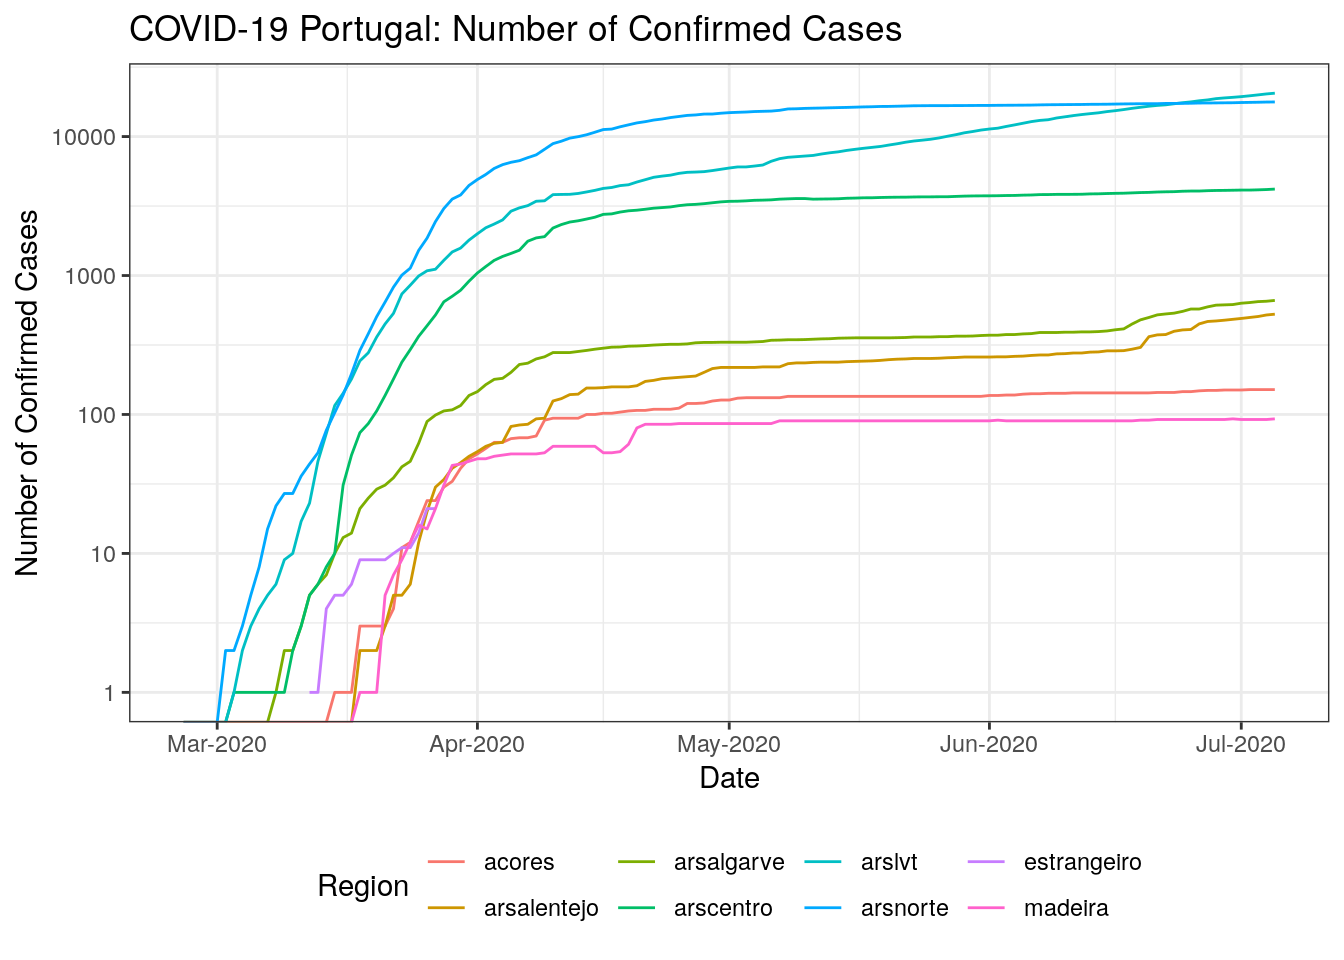
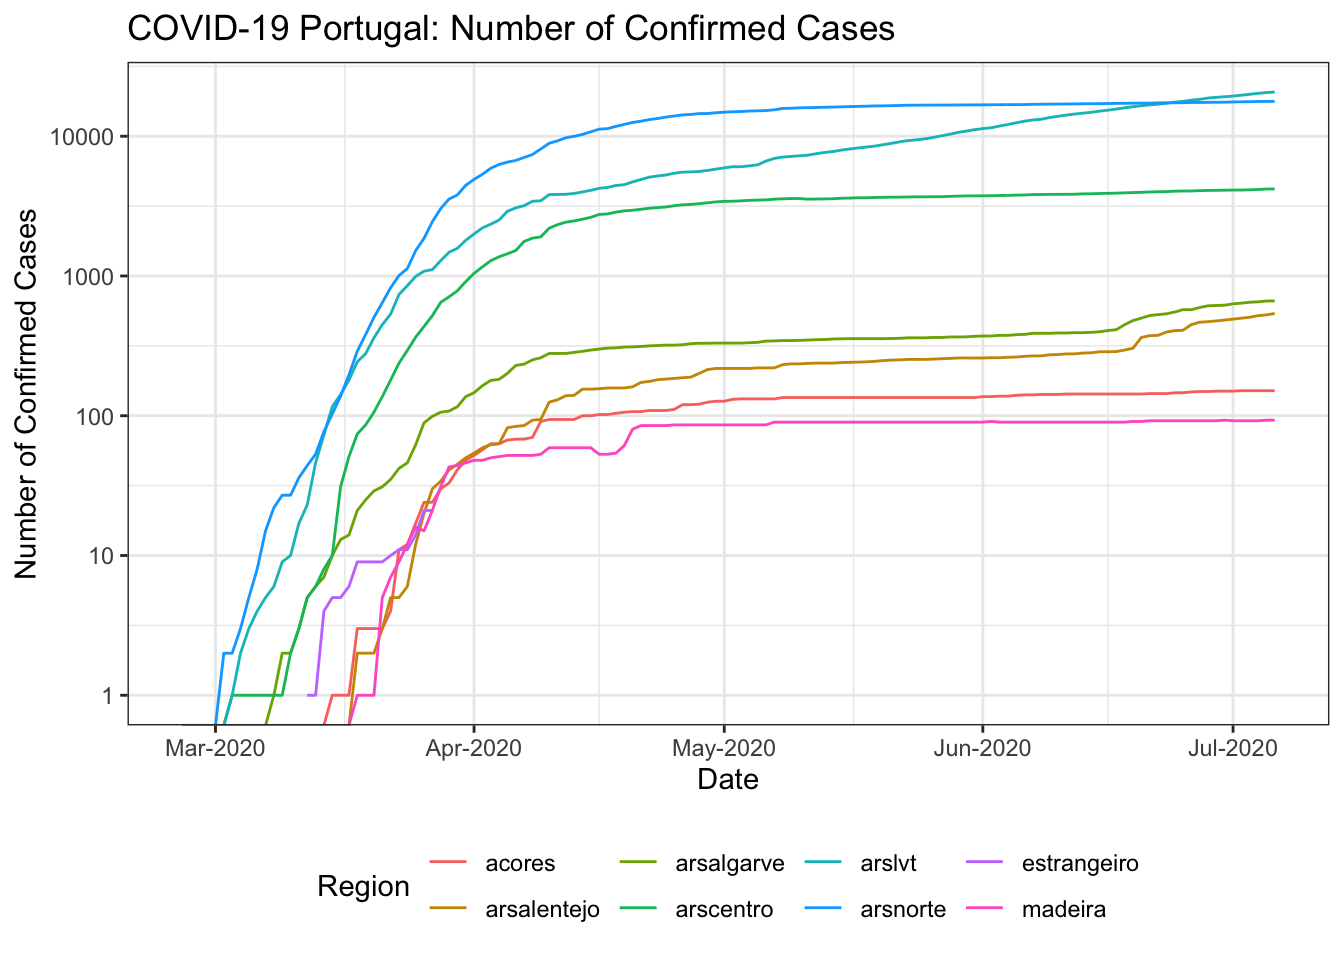
Data Update & Re-build README.Rmd

diff --git a/README.md b/README.md
@@ -1,9 +1,9 @@
 
 ## Daily Portuguese COVID-19 Data
 
-**Last updated: Mon 06 Jul 2020 (10:05:05 WEST \[+0100\])**
+**Last updated: Mon 06 Jul 2020 (15:26:33 UTC \[+0000\])**
 
-  - Data available from **26 Feb 2020** until **05 Jul 2020** (131
+  - Data available from **26 Feb 2020** until **06 Jul 2020** (132
     days).
 
 ### Download User Friendly Version
@@ -48,7 +48,7 @@ suppressPackageStartupMessages(library(here)) # library(here)
 # Read in data as a data.frame and data.table object.
 CV <- fread(here("data", "covid19pt_DSSG_Long.csv"))
 str(CV)
-## Classes 'data.table' and 'data.frame':   11004 obs. of  12 variables:
+## Classes 'data.table' and 'data.frame':   11088 obs. of  12 variables:
 ##  $ data       : chr  "2020-02-26" "2020-02-27" "2020-02-28" "2020-02-29" ...
 ##  $ origVars   : chr  "cadeias_transmissao" "cadeias_transmissao" "cadeias_transmissao" "cadeias_transmissao" ...
 ##  $ origType   : chr  "cadeias" "cadeias" "cadeias" "cadeias" ...
@@ -111,7 +111,7 @@ CV[origType=="confirmados" & ageGrp=="" & region!="Portugal"] %>%
     y = "Number of Confirmed Cases",
     colour = "Region")
 ## Warning: Transformation introduced infinite values in continuous y-axis
-## Warning: Removed 115 row(s) containing missing values (geom_path).
+## Warning: Removed 116 row(s) containing missing values (geom_path).
 ```
 
 <img src="README_figs/README-casesbyRegion-1.png" width="672" />
@@ -140,9 +140,9 @@ CV[dailyChange<0 & !(origType %in% c("vigilancia", "internados"))][
 ##   4: 2020-03-24 confirmados   confirmados_40_49_f   224          -2
 ##   5: 2020-03-19 confirmados   confirmados_60_69_f    35         -14
 ##  ---                                                               
-## 148: 2020-05-23      obitos      obitos_arscentro   230          -3
-## 149: 2020-07-03      obitos      obitos_arscentro   248          -1
-## 150: 2020-06-20      obitos              obitos_f   768          -1
-## 151: 2020-05-21 transmissao transmissao_importada   767          -3
-## 152: 2020-07-05 transmissao transmissao_importada   767      -40295
+## 149: 2020-05-23      obitos      obitos_arscentro   230          -3
+## 150: 2020-07-03      obitos      obitos_arscentro   248          -1
+## 151: 2020-06-20      obitos              obitos_f   768          -1
+## 152: 2020-05-21 transmissao transmissao_importada   767          -3
+## 153: 2020-07-05 transmissao transmissao_importada   767      -40295
 ```
